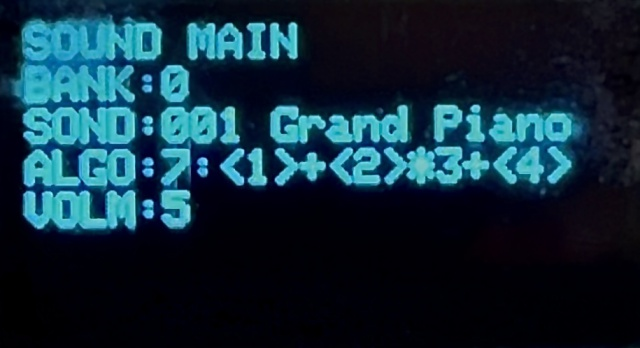
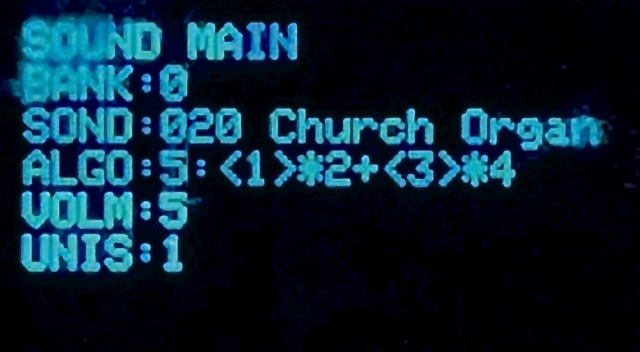
Doc

diff --git a/Doc/UsersManual_jp.md b/Doc/UsersManual_jp.md
@@ -186,6 +186,13 @@
 4) VOLM:5  
 
 マスターボリュームの値を1〜9の範囲で変更できます。    
+	
+5) UNIS:1  
+
+ユニゾン発音を0〜9の範囲で変更できます。  
+0のときは非ユニゾンモードで1つの音程を1つの音で発音します。    
+1以上のときは元の音程に加えて、この値の周波数(Hz)だけずらした音も同時発音するユニゾンモードになります。これによって音色の重厚さが増すことがあります。  
+ユニゾンモードでは最大同時発音数が半分の6になります。  
 
 
 ## 7. ALGORITHM

diff --git a/Doc/UsersManual.md b/Doc/UsersManual.md
@@ -184,6 +184,13 @@ PiFMS has 11 algorithms.
 4) VOLM:5  
 
 You can change the master volume from 1 to 9.  
+	
+5) UNIS:1  
+
+You can change the unison mode, value is from 0 to 9.  
+0 is for Not-Unison mode.  PiFMS plays one tone for a note.  
+In case of from 1 to 9, PiFMS plays an original tone with another tone.  The other tone has a frequency adding UNIS(Hz) value to the original tone.  
+PiFMS can play 6 notes maximum in the unison mode.    
 
 
 ## 7. ALGORITHM
